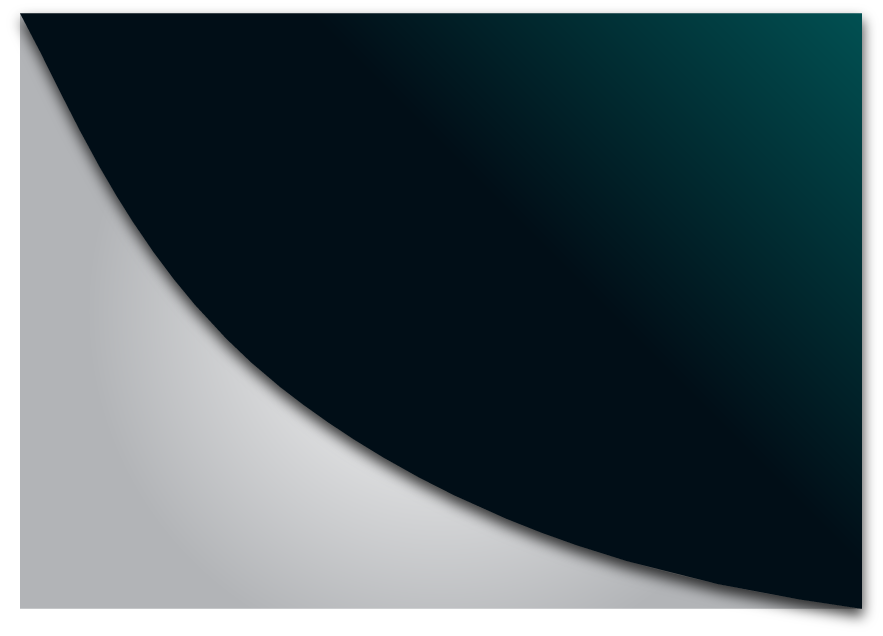
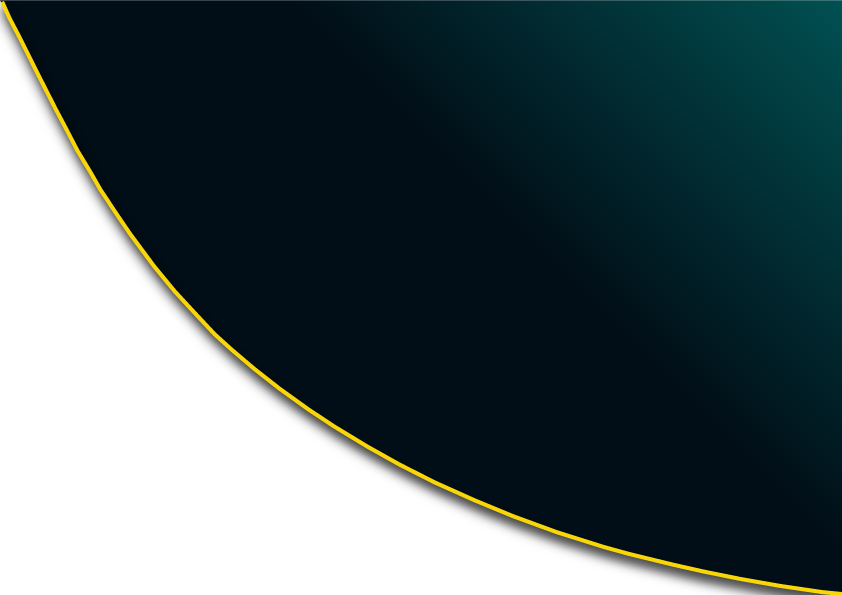
.

diff --git a/css/style.css b/css/style.css
@@ -110,7 +110,7 @@ h2{
 }
 /* The main navbar before scrolling*/
 .navbar-dark{
-    background-color: #063754;
+    background-color: #014952;
     border-bottom: 0.5px solid lightgrey;
     z-index: 10;
     height: 65px;
@@ -118,12 +118,12 @@ h2{
 
 /* The collapsed navbar background color*/
 .navbar.scrolled .navbar-collapse{
-  background:#011a20;
+  background:#014952;
 }
 
 .navbar-darked{
 
-  background-color: #063754;
+  background-color: #014952;
   box-shadow: 2px 2px 2px 2px black;
   padding: 5px;
 }
@@ -264,7 +264,7 @@ body {
   text-align: left;
   padding:5px;
   padding-top: 8px;
-  background-color: #063754;
+  background-color: #014952;
 }
 .menu{
   color: rgb(21, 1, 1);
@@ -398,7 +398,7 @@ h3{
 
 
 .navbar-custom {
-    background:#116980;
+    background:#014952;
 }
 
 .navbar-custom .navbar-brand{
@@ -461,7 +461,7 @@ p {
 
 .hompagecover{
   width: 55px;
-  height: 40px;
+  height: 54px;
   padding-bottom:0px;
 }
 .hompage{
@@ -662,6 +662,7 @@ p {
   min-height:100vh;
   min-width:100%;
   color: white;
+  background-color: white;
 }
 
 .headerfirstpage{
@@ -777,10 +778,10 @@ p {
  /* Typed js class and font size */
 
  .headersecondline{
-  font-size: 28px;
+  font-size: 22px;
   font-family: 'Times New Roman', Times, serif;
   color: #fcfcfc;
-  line-height: 50px;
+  line-height: 40px;
  }
 
  .card-body{
@@ -852,3 +853,4 @@ p {
   padding: 10px;
   cursor: pointer;
 }
+
